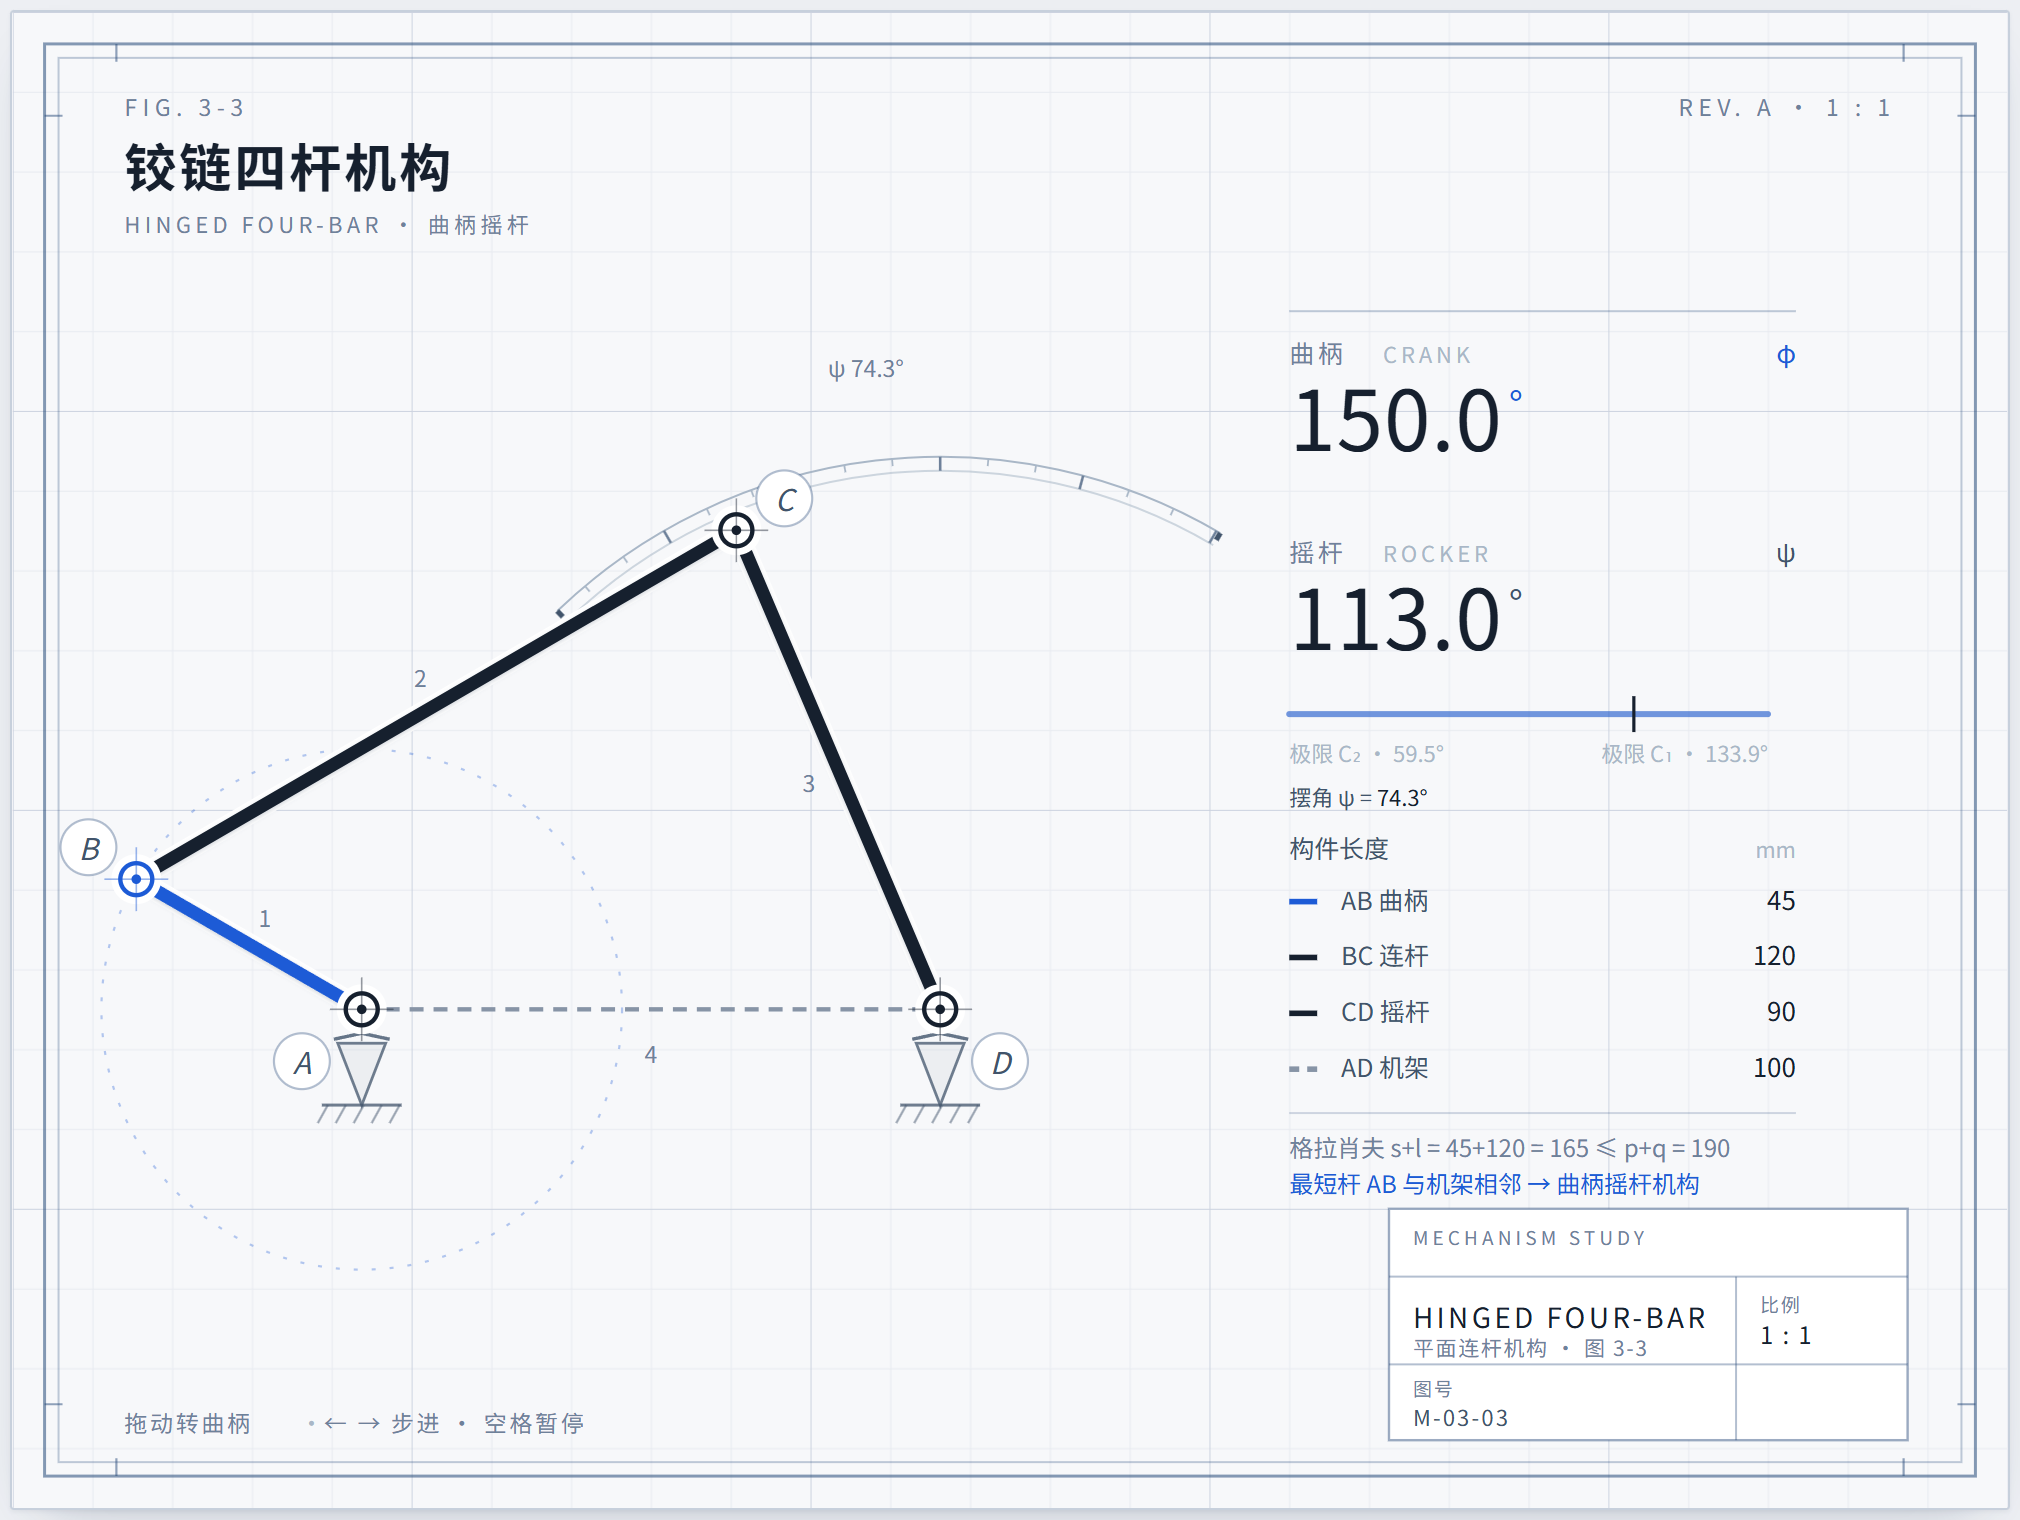
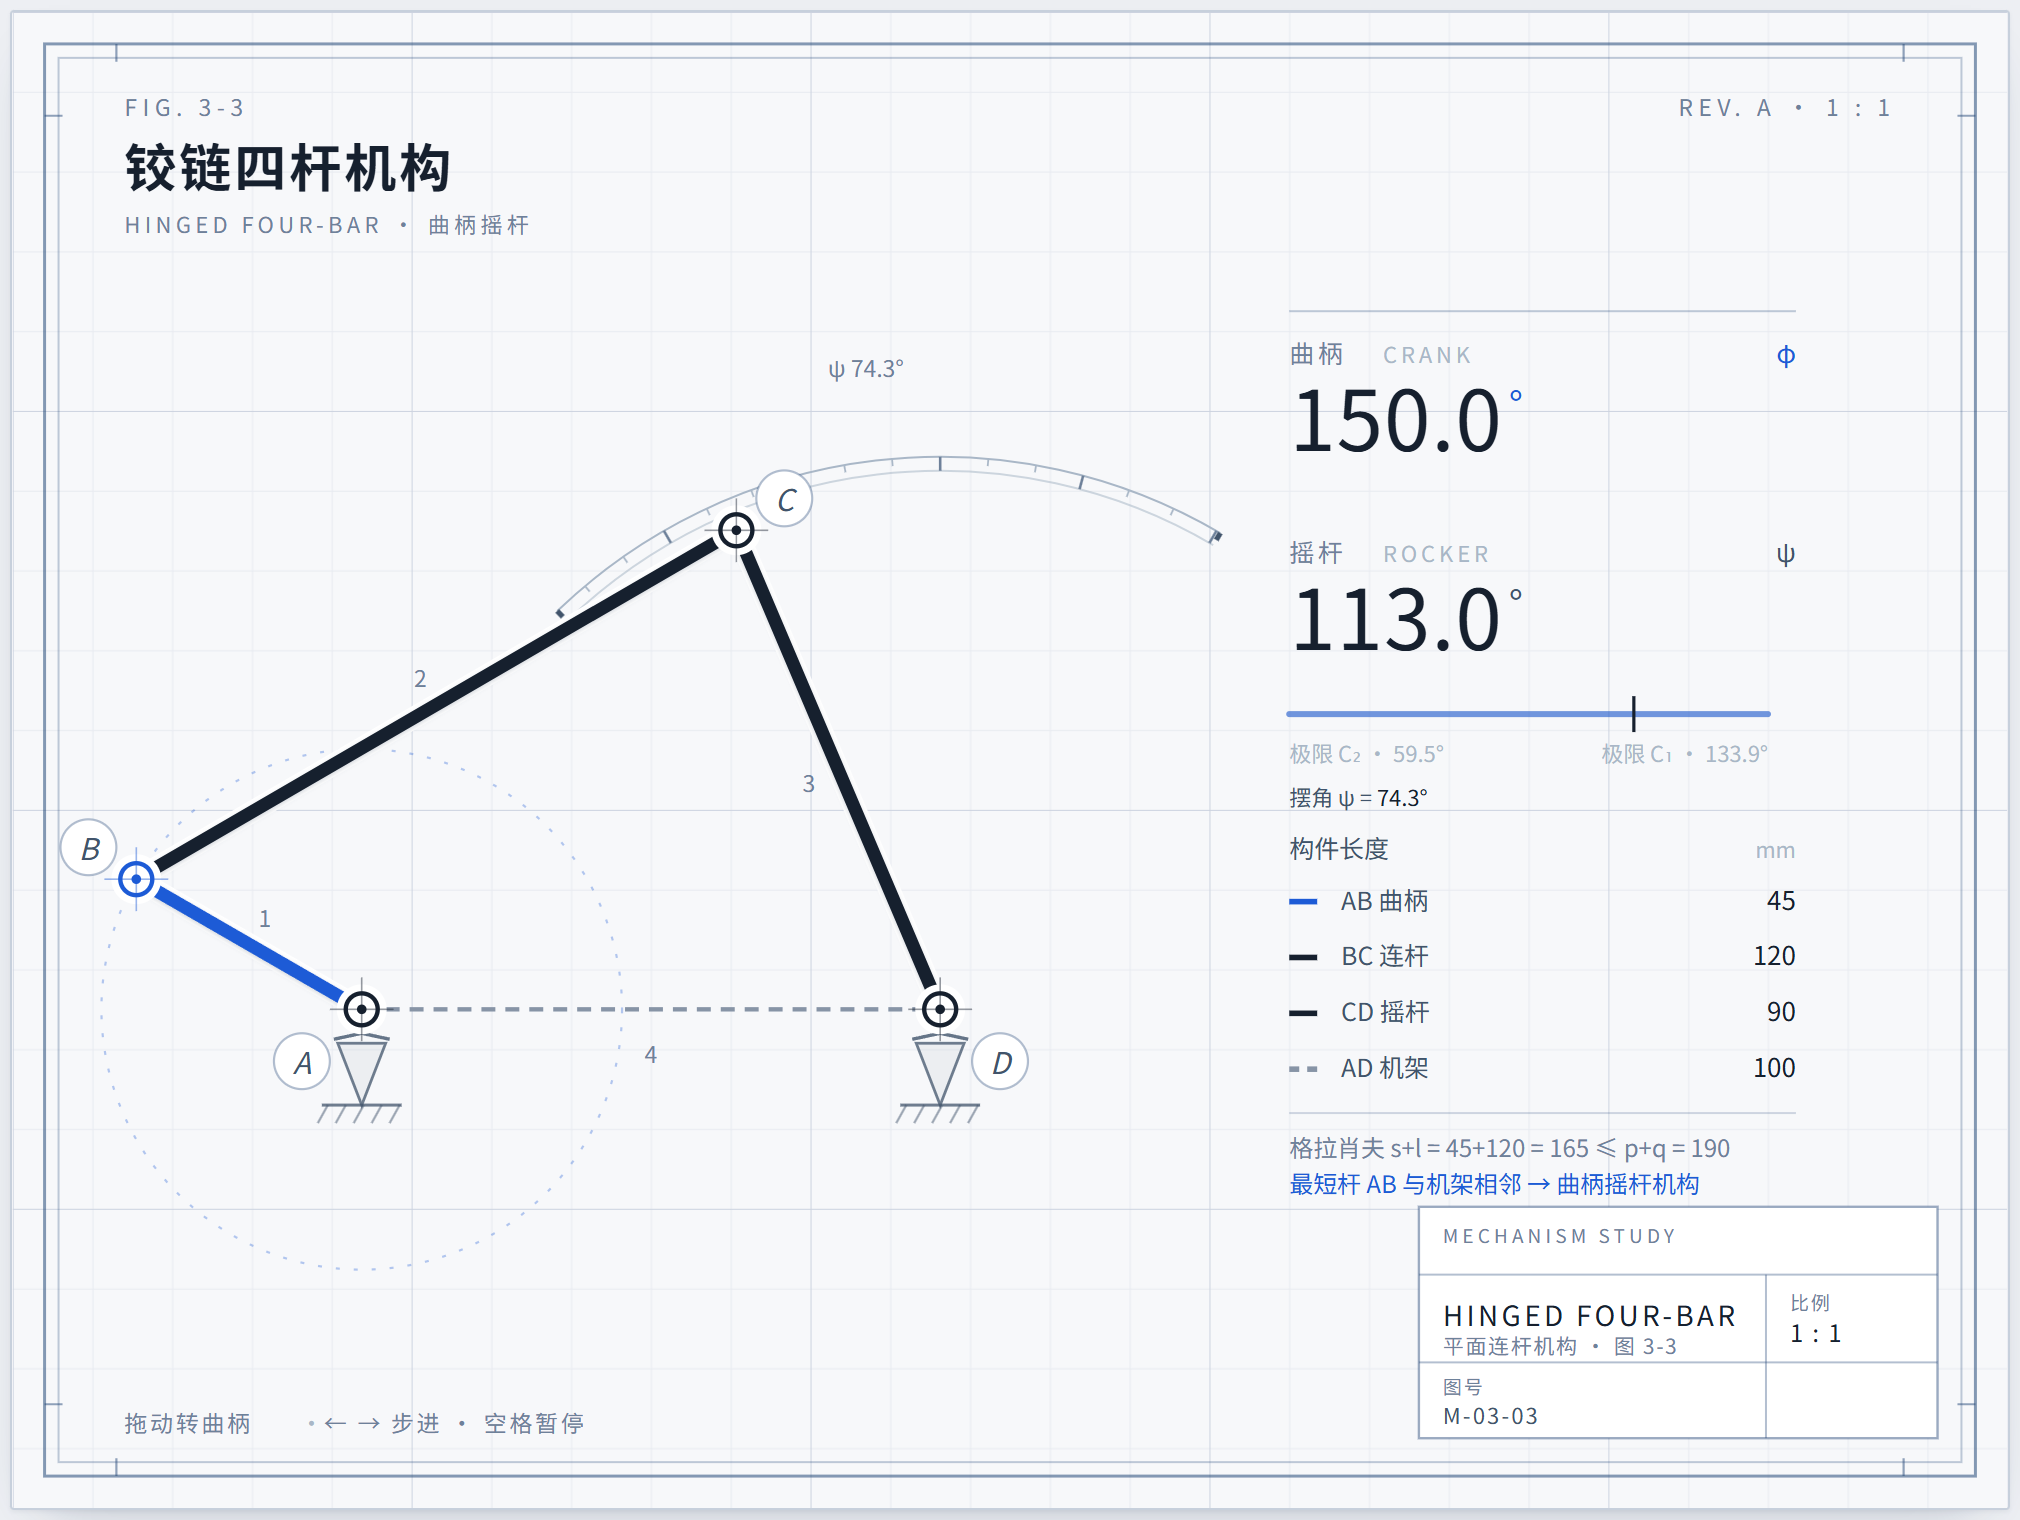
fix: 样例 3-3 的标题栏也改用内框锚定（不再手写 y/h）

Changed region(s): [[0.6861, 0.773, 0.9668, 0.9586]]

diff --git a/example-fig-3-3.html b/example-fig-3-3.html
@@ -171,17 +171,17 @@
 <text x="640" y="592" font-family=""Microsoft YaHei","Noto Sans SC","PingFang SC",sans-serif" font-size="12" fill="#1D5BD6">最短杆 AB 与机架相邻 → 曲柄摇杆机构</text>
 
 <g>
-  <rect x="690" y="600" width="260" height="116" fill="#FFFFFF" stroke="#254878" stroke-opacity="0.45" stroke-width="1.2"/>
-  <line x1="690" y1="634" x2="950" y2="634" stroke="#254878" stroke-opacity="0.35" stroke-width="1"/>
-  <line x1="690" y1="678" x2="950" y2="678" stroke="#254878" stroke-opacity="0.35" stroke-width="1"/>
-  <line x1="864" y1="634" x2="864" y2="716" stroke="#254878" stroke-opacity="0.35" stroke-width="1"/>
-  <text x="702" y="618" font-family=""JetBrains Mono","Cascadia Mono",Consolas,"Roboto Mono",monospace" font-size="9.5" fill="#6E819A" letter-spacing="0.22em">MECHANISM STUDY</text>
-  <text x="702" y="660" font-family=""JetBrains Mono","Cascadia Mono",Consolas,"Roboto Mono",monospace" font-size="14" fill="#16202E" letter-spacing="0.12em">HINGED FOUR-BAR</text>
-  <text x="702" y="674" font-family=""Microsoft YaHei","Noto Sans SC","PingFang SC",sans-serif" font-size="10.5" fill="#6E819A" letter-spacing="0.08em">平面连杆机构 · 图 3-3</text>
-  <text x="702" y="694" font-family=""Microsoft YaHei","Noto Sans SC","PingFang SC",sans-serif" font-size="9.5" fill="#6E819A" letter-spacing="0.1em">图号</text>
-  <text x="702" y="709" font-family=""JetBrains Mono","Cascadia Mono",Consolas,"Roboto Mono",monospace" font-size="11" fill="#41546B" letter-spacing="0.1em">M-03-03</text>
-  <text x="876" y="652" font-family=""Microsoft YaHei","Noto Sans SC","PingFang SC",sans-serif" font-size="9.5" fill="#6E819A" letter-spacing="0.1em">比例</text>
-  <text x="876" y="668" font-family=""JetBrains Mono","Cascadia Mono",Consolas,"Roboto Mono",monospace" font-size="12" fill="#16202E" letter-spacing="0.08em">1 : 1</text>
+  <rect x="705" y="599" width="260" height="116" fill="#FFFFFF" stroke="#254878" stroke-opacity="0.45" stroke-width="1.2"/>
+  <line x1="705" y1="633" x2="965" y2="633" stroke="#254878" stroke-opacity="0.35" stroke-width="1"/>
+  <line x1="705" y1="677" x2="965" y2="677" stroke="#254878" stroke-opacity="0.35" stroke-width="1"/>
+  <line x1="879" y1="633" x2="879" y2="715" stroke="#254878" stroke-opacity="0.35" stroke-width="1"/>
+  <text x="717" y="617" font-family=""JetBrains Mono","Cascadia Mono",Consolas,"Roboto Mono",monospace" font-size="9.5" fill="#6E819A" letter-spacing="0.22em">MECHANISM STUDY</text>
+  <text x="717" y="659" font-family=""JetBrains Mono","Cascadia Mono",Consolas,"Roboto Mono",monospace" font-size="14" fill="#16202E" letter-spacing="0.12em">HINGED FOUR-BAR</text>
+  <text x="717" y="673" font-family=""Microsoft YaHei","Noto Sans SC","PingFang SC",sans-serif" font-size="10.5" fill="#6E819A" letter-spacing="0.08em">平面连杆机构 · 图 3-3</text>
+  <text x="717" y="693" font-family=""Microsoft YaHei","Noto Sans SC","PingFang SC",sans-serif" font-size="9.5" fill="#6E819A" letter-spacing="0.1em">图号</text>
+  <text x="717" y="708" font-family=""JetBrains Mono","Cascadia Mono",Consolas,"Roboto Mono",monospace" font-size="11" fill="#41546B" letter-spacing="0.1em">M-03-03</text>
+  <text x="891" y="651" font-family=""Microsoft YaHei","Noto Sans SC","PingFang SC",sans-serif" font-size="9.5" fill="#6E819A" letter-spacing="0.1em">比例</text>
+  <text x="891" y="667" font-family=""JetBrains Mono","Cascadia Mono",Consolas,"Roboto Mono",monospace" font-size="12" fill="#16202E" letter-spacing="0.08em">1 : 1</text>
 </g>
 
 <text x="56" y="712" font-family=""Microsoft YaHei","Noto Sans SC","PingFang SC",sans-serif" font-size="11.5" fill="#6E819A" letter-spacing="0.12em">拖动转曲柄</text>
